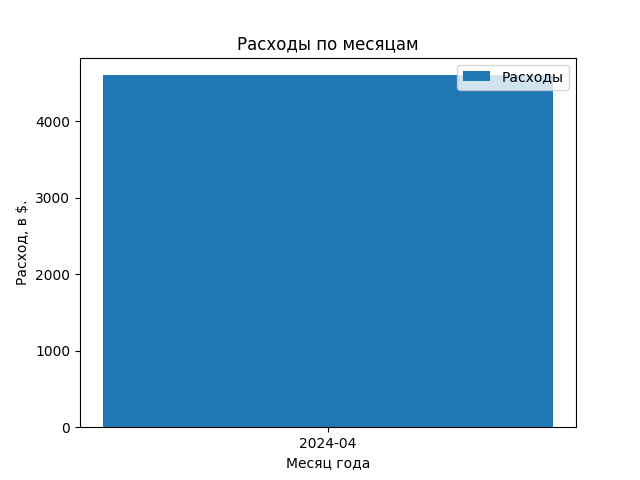
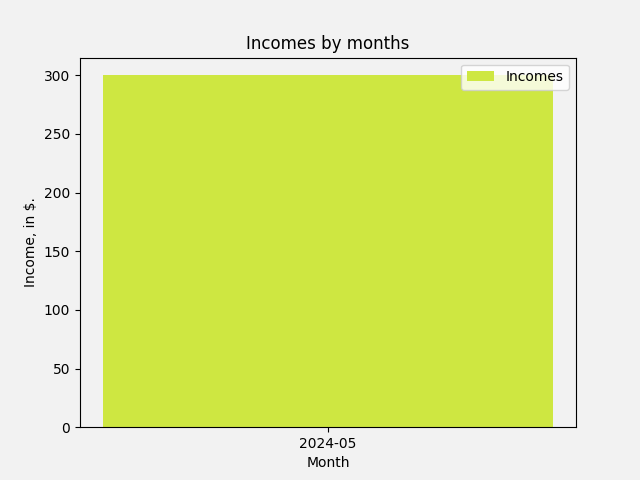
Add graphics

diff --git a/budget_project/templates/base.html b/budget_project/templates/base.html
@@ -1,4 +1,5 @@
 <!DOCTYPE html>
+{% load static %}
 <html lang="en">
   <head>
     <link href='https://fonts.googleapis.com/css?family=Fredoka One' rel='stylesheet'>
@@ -16,14 +17,14 @@
         padding: 10px 10px 10px 10px;
         color: #CEE741;
       }
-      .nav-item, .nav-link{
+      .nav-item, .nav-link {
         font-family: 'Fredoka One', sans-serif;
         font-size: 24px;
         text-decoration: none;
         flex: 1 1 auto;
         margin: 0 5px;
       } 
-      .nav-item:active{
+      .nav-item:active, .active{
         color: #ffffff;
       } 
       .navbar-text{
@@ -49,25 +50,25 @@
         background: #CEE741; /* Цвет фона */
       }
       .no-hover {
-        border: 0px solid #ffffff00;
-        background-color: #ffffff00;
+        border: 0px solid #f2f2f2;
+        background-color: #f2f2f2;
       }
       .no-hover:hover {
-        border: 0px solid #ffffff00;
-        background-color: #ffffff00;
+        border: 0px solid #f2f2f2;
+        background-color: #f2f2f2;
       }
       li {
         display: inline-block;
         font-family: 'Fredoka One';
-        font-size: 22px;
+        font-size: 18px;
       }
-      .button {
+      .button, .signout-button {
         background-color: #CEE741; /* Green */
         border: none;
         border-radius: 15px;
         color: white;
         width: 200px;
-        height: 75px;
+        height: 50px;
         padding: 15px 15px 15px 15px;
         align-self: center;
         text-align: center;
@@ -92,21 +93,6 @@
         box-shadow: 5px 2px 2px #0000001f;
         margin: 10px 10px 10px 10px;
       }
-      .signout-button {
-        background-color: #ffffff; /* Green */
-        border: none;
-        border-radius: 15px;
-        color: #CEE741;
-        width: 200px;
-        height: 50px;
-        padding: 15px 15px 15px 15px;
-        align-self: center;
-        text-align: center;
-        transition-duration: 0.4s;
-        display: inline-block;
-        font-size: 16px;
-        box-shadow: 5px 2px 2px #0000001f;
-      }
       .button-table {
         background-color: #CEE741; /* Green */
         border: none;
@@ -124,7 +110,7 @@
         background-color: #ffffff; /* Green */
         color: #000000;
       }
-      .button:hover, .filter-button:hover {
+      .button:hover, .filter-button:hover, .signout-button:hover{
         background-color: #ffffff; /* Green */
         color: #CEE741;
       }
@@ -138,15 +124,30 @@
       .field-style {
         border:1px solid #ccc; 
         border-radius:15px;
-        height:50px;
+        height: 40px;
+        width: 100px;
         background-color: #ffffff;
-        margin: 10px 10px 10px 50px;
+        margin: 10px 10px 10px 10px;
       }
       footer{
         background-color: #f2f2f2;
         padding: 10px 10px;
         border-radius: 25px 25px 0px 0px;
         margin: 0px 60px 0px 60px;
+      }
+      .label {
+        font-family: 'Fredoka One', sans-serif;
+        font-size: 18px;
+        color:#CEE741;
+        display: inline-block;
+      }
+      .auth-form {
+        text-align: center;
+        height: auto;
+        margin: 10% 30% 10% 30%;
+        border-radius: 25px;
+        background-color: #f2f2f2;
+        padding: 20px 20px 20px 20px;
       }
     </style>
   </head>

diff --git a/budget_project/templates/registration/login.html b/budget_project/templates/registration/login.html
@@ -16,25 +16,31 @@
     {% endif %}
 {% endif %}
 
-<form method="post" action="{% url 'login' %}">
-{% csrf_token %}
-<table>
-<tr>
-    <td>{{ form.username.label_tag }}</td>
-    <td>{{ form.username }}</td>
-</tr>
-<tr>
-    <td>{{ form.password.label_tag }}</td>
-    <td>{{ form.password }}</td>
-</tr>
-</table>
+<div class="auth-form">
+  <form method="post" action="{% url 'login' %}">
+  {% csrf_token %}
+  {% for field in form.visible_fields %}
+    <div>
+      {{ field.errors }}
+      <div style="font-family: 'Fredoka One', sans-serif;
+      font-size: 18px;
+      color:#CEE741;">{{ field.label_tag }}</div>
+      <li>{{ field }}</li>
+      {% if field.help_text %}
+      <p class="help" id="{{ field.auto_id }}_helptext">
+          {{ field.help_text|safe }}
+      </p>
+      {% endif %}
+    </div>
+  {% endfor %}
 
-<input type="submit" value="login">
-<!-- Этот тег надо будет перенести в нашу форму. -->
-<input type="hidden" name="next" value="{{ next }}">
-</form>
-
-{# Assumes you setup the password_reset view in your URLconf #}
-<p><a href="{% url 'password_reset' %}">Lost password?</a></p>
+  <input class="filter-button" type="submit" value="login">
+  <!-- Этот тег надо будет перенести в нашу форму. -->
+  <input type="hidden" name="next" value="{{ next }}">
+  </form>
+  
+  {# Assumes you setup the password_reset view in your URLconf #}
+  <p><a href="{% url 'password_reset' %}">Lost password?</a></p>
+</div>
 
 {% endblock %}

diff --git a/budget_project/templates/webbudget/dashboard.html b/budget_project/templates/webbudget/dashboard.html
@@ -1,4 +1,5 @@
 {% extends "base.html" %}
+{% load static %}
 {% block content %} 
   <div style="margin-left: 60px; margin-right: 60px; margin-top: 20px; border-radius: 25px; background-color: #f2f2f2; padding: 20px">
     <form method="post">
@@ -8,7 +9,13 @@
         {{ form.media.js }}
         {% for field in form.visible_fields %}
           <div style="flex: 1; padding-left: 25px; align-content: center;">
-            <li>{{ field }}</li>
+            {{ field.errors }}
+            <div class="label">{{ field.label_tag }}</div> <li>{{ field }}</li>
+            {% if field.help_text %}
+              <p class="help" id="{{ field.auto_id }}_helptext">
+                {{ field.help_text|safe }}
+              </p>
+            {% endif %}
           </div>
         {% endfor %}
         <!-- {{ form.as_p }} -->
@@ -65,8 +72,7 @@
         {% include "includes/paginator.html" %}
     </div>
     <div style="flex: 1; border-radius: 25px; background-color: #f2f2f2; margin: 10px; padding: 20px;">
-      <p class="main-title">Hear will be Graphics</p>
-      <img src="webbudget/media/add_some_data.png" />
+      <img src="/media/add_some_data.png"/>
     </div>
     <div style="flex: 0.7; border-radius: 25px; background-color: #f2f2f2; margin: 10px; padding: 20px;">
       <table>

diff --git a/budget_project/templates/registration/registration_form.html b/budget_project/templates/registration/registration_form.html
@@ -1,15 +1,28 @@
 {% extends "base.html" %}
 
 {% block content %}
-  <div class="card col-4 m-3">
-    <div class="card-header">
-      Регистрация пользователя
+  <div class="auth-form">
+    <div class="main-title">
+      Registration
     </div>
-    <div class="card-body">
+    <div>
       <form method="post">
         {% csrf_token %}
-        {{ form.as_p }}
-        <input type="submit" value="Registrate">
+        {% for field in form.visible_fields %}
+          <div>
+            {{ field.errors }}
+            <div style="font-family: 'Fredoka One', sans-serif;
+            font-size: 18px;
+            color:#CEE741;">{{ field.label_tag }}</div>
+            <li>{{ field }}</li>
+            {% if field.help_text %}
+              <p class="help" id="{{ field.auto_id }}_helptext">
+                  {{ field.help_text|safe }}
+              </p>
+            {% endif %}
+          </div>
+        {% endfor %}
+        <input class="filter-button" type="submit" value="Registrate">
       </form>
     </div>
   </div>

diff --git a/budget_project/templates/includes/header.html b/budget_project/templates/includes/header.html
@@ -19,7 +19,7 @@
               Dashboard
             </a>
           </li>
-          <span class="navbar-text"><b>User: {{ user.username }}</b></span>
+          <span class="navbar-text"><b>Hi, {{ user.username }}!</b></span>
           <li class="nav-item">
             <form method="post" action="{% url 'logout' %}">
               {% csrf_token %}
@@ -32,6 +32,9 @@
           {% else %}
             <li class="nav-item">
               <a class="nav-link{% if view_name == 'login' %} active {% endif %}" href="{% url 'login' %}"><b>Log In</b></a>
+            </li>        
+            <li class="nav-item">
+              <a class="nav-link{% if view_name == 'registration' %} active {% endif %}" href="{% url 'registration' %}"><b>Registration</b></a>
             </li>        
           {% endif %}
           <!-- Конец блока ссылок для неавторизованного пользователя -->

diff --git a/budget_project/templates/webbudget/income.html b/budget_project/templates/webbudget/income.html
@@ -6,12 +6,3 @@
     <input type="submit" value="Submit">
   </form>
 {% endblock %} 
-
- <!-- <form method="post">
-    {% csrf_token %}
-    {{ form }}
-    <input type="submit" value="Submit">
-  </form> -->
-  <!-- {% for product in products %}
-    <p>{{ product }}</p>
-  {% endfor %} -->

diff --git a/budget_project/templates/registration/logged_out.html b/budget_project/templates/registration/logged_out.html
@@ -1,0 +1,7 @@
+{% extends "base.html" %}
+
+{% block content %}
+  <div style="margin: 0px 60px 0px 60px; min-height: 500px;">
+    <h2 class="main-title">You have successfully logged out of your account!</h2>
+  </div>
+{% endblock %}

diff --git a/budget_project/webbudget/graphic_creator.py b/budget_project/webbudget/graphic_creator.py
@@ -1,3 +1,4 @@
+from django.conf import settings
 import matplotlib
 import matplotlib.pyplot as plt
 from bot.models import Money
@@ -9,7 +10,7 @@ def create_grafic(request):
     """
 
     expenses_object_dictinaries = [money for money in Money.objects.filter(type__name='incomes', author=request.user).values()]
-    name_of_file = './media/add_some_data.png'
+    name_of_file =  settings.MEDIA_ROOT / 'add_some_data.png'
 
     dates = set(
             i['date'].strftime("%Y-%m")
@@ -30,15 +31,22 @@ def create_grafic(request):
     xs_dates = [obj['date'] for obj in summed_expenses]
     ys_values = [obj['value'] for obj in summed_expenses]
     # столбчатый график
+    plt.rcParams['font.family'] = 'sans-serif'
+    plt.rcParams['font.sans-serif'] = ['Tahoma', 'DejaVu Sans',
+                               'Lucida Grande', 'Verdana']
+    plt.figure(facecolor='#f2f2f2')
+    plt.axes().set_facecolor('#f2f2f2')
     plt.bar(
         xs_dates,
         ys_values,
-        label='Расходы',
+        label='Incomes',
+        color='#CEE741',
     )
-    plt.xlabel('Месяц года')
-    plt.ylabel('Расход, в $.')
-    plt.title('Расходы по месяцам')
+    plt.xlabel('Month')
+    plt.ylabel('Income, in $.')
+    plt.title('Incomes by months')
     plt.legend()
+
 
     plt.savefig(name_of_file)
     file_with_grafics = open(name_of_file, 'rb')

diff --git a/budget_project/budget_project/urls.py b/budget_project/budget_project/urls.py
@@ -14,6 +14,8 @@ Including another URLconf
     2. Add a URL to urlpatterns:  path('blog/', include('blog.urls'))
 """
 from django.contrib import admin
+from django.conf import settings
+from django.conf.urls.static import static
 from django.contrib.auth.forms import UserCreationForm
 from django.views.generic.edit import CreateView
 from django.urls import include, path, reverse_lazy
@@ -34,3 +36,8 @@ urlpatterns = [
     path('', include('homepage.urls')),
     path('', include('webbudget.urls')),
 ]
+
+if settings.DEBUG:
+    urlpatterns += static(
+        settings.MEDIA_URL, document_root=settings.MEDIA_ROOT
+    )

diff --git a/budget_project/webbudget/views.py b/budget_project/webbudget/views.py
@@ -40,7 +40,7 @@ def dashboard(request, pk=None):
     expence_categories = Category.objects.filter(type__name='expenses') # категории расходов
     # categories = Category.objects.filter(type__name='incomes', author=request.user) # категории доходов
     # expence_categories = Category.objects.filter(type__name='expenses', author=request.user) # категории расходов
-    # create_grafic(request)
+    create_grafic(request)
     context = {
         'title': title,
         'page_obj': page_obj,

diff --git a/budget_project/budget_project/settings.py b/budget_project/budget_project/settings.py
@@ -141,12 +141,16 @@ USE_TZ = True
 # https://docs.djangoproject.com/en/3.2/howto/static-files/
 
 STATIC_URL = '/static/'
+STATIC_ROOT = os.path.join(BASE_DIR, 'static')
+
+MEDIA_URL = 'media/'
+MEDIA_ROOT = BASE_DIR / MEDIA_URL
 
 # Default primary key field type
 # https://docs.djangoproject.com/en/3.2/ref/settings/#default-auto-field
 
 DEFAULT_AUTO_FIELD = 'django.db.models.BigAutoField'
 
-LOGIN_REDIRECT_URL = 'pages:homepage'
+LOGIN_REDIRECT_URL = 'webbudget:dashboard'
 
 USE_DJANGO_JQUERY = True
